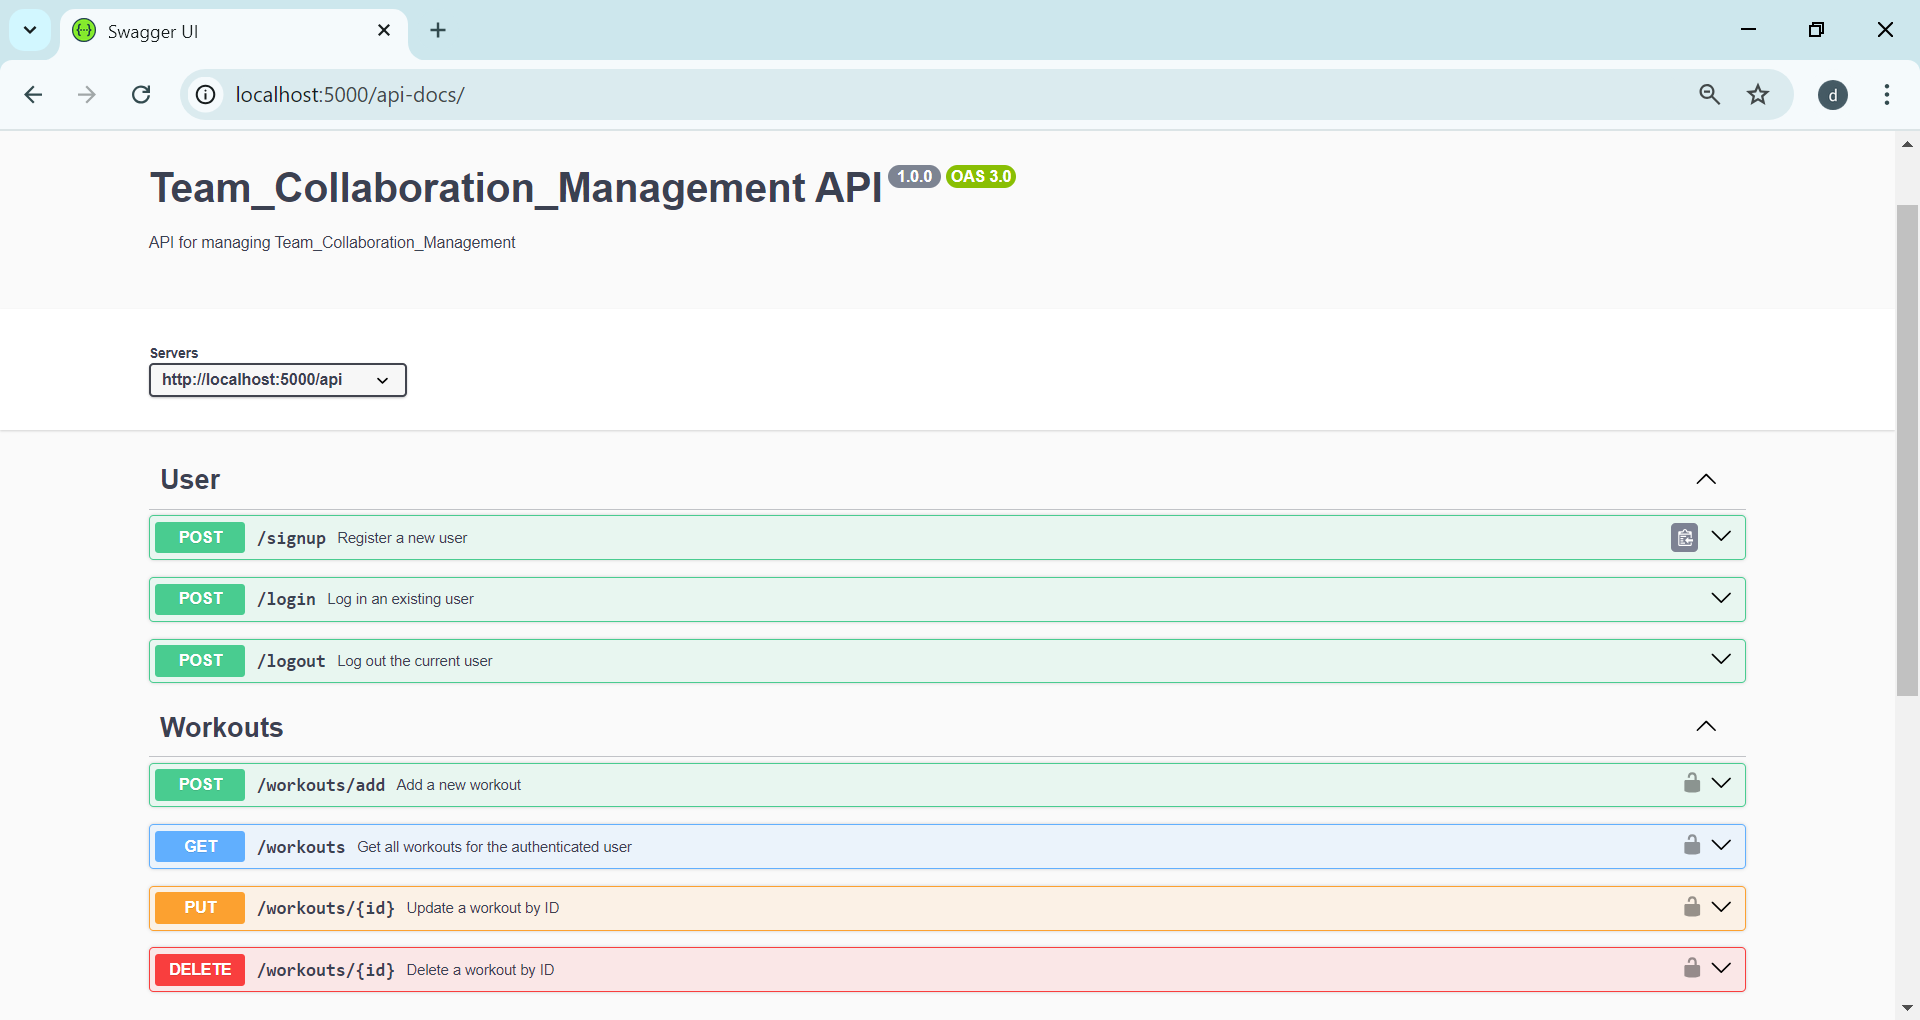
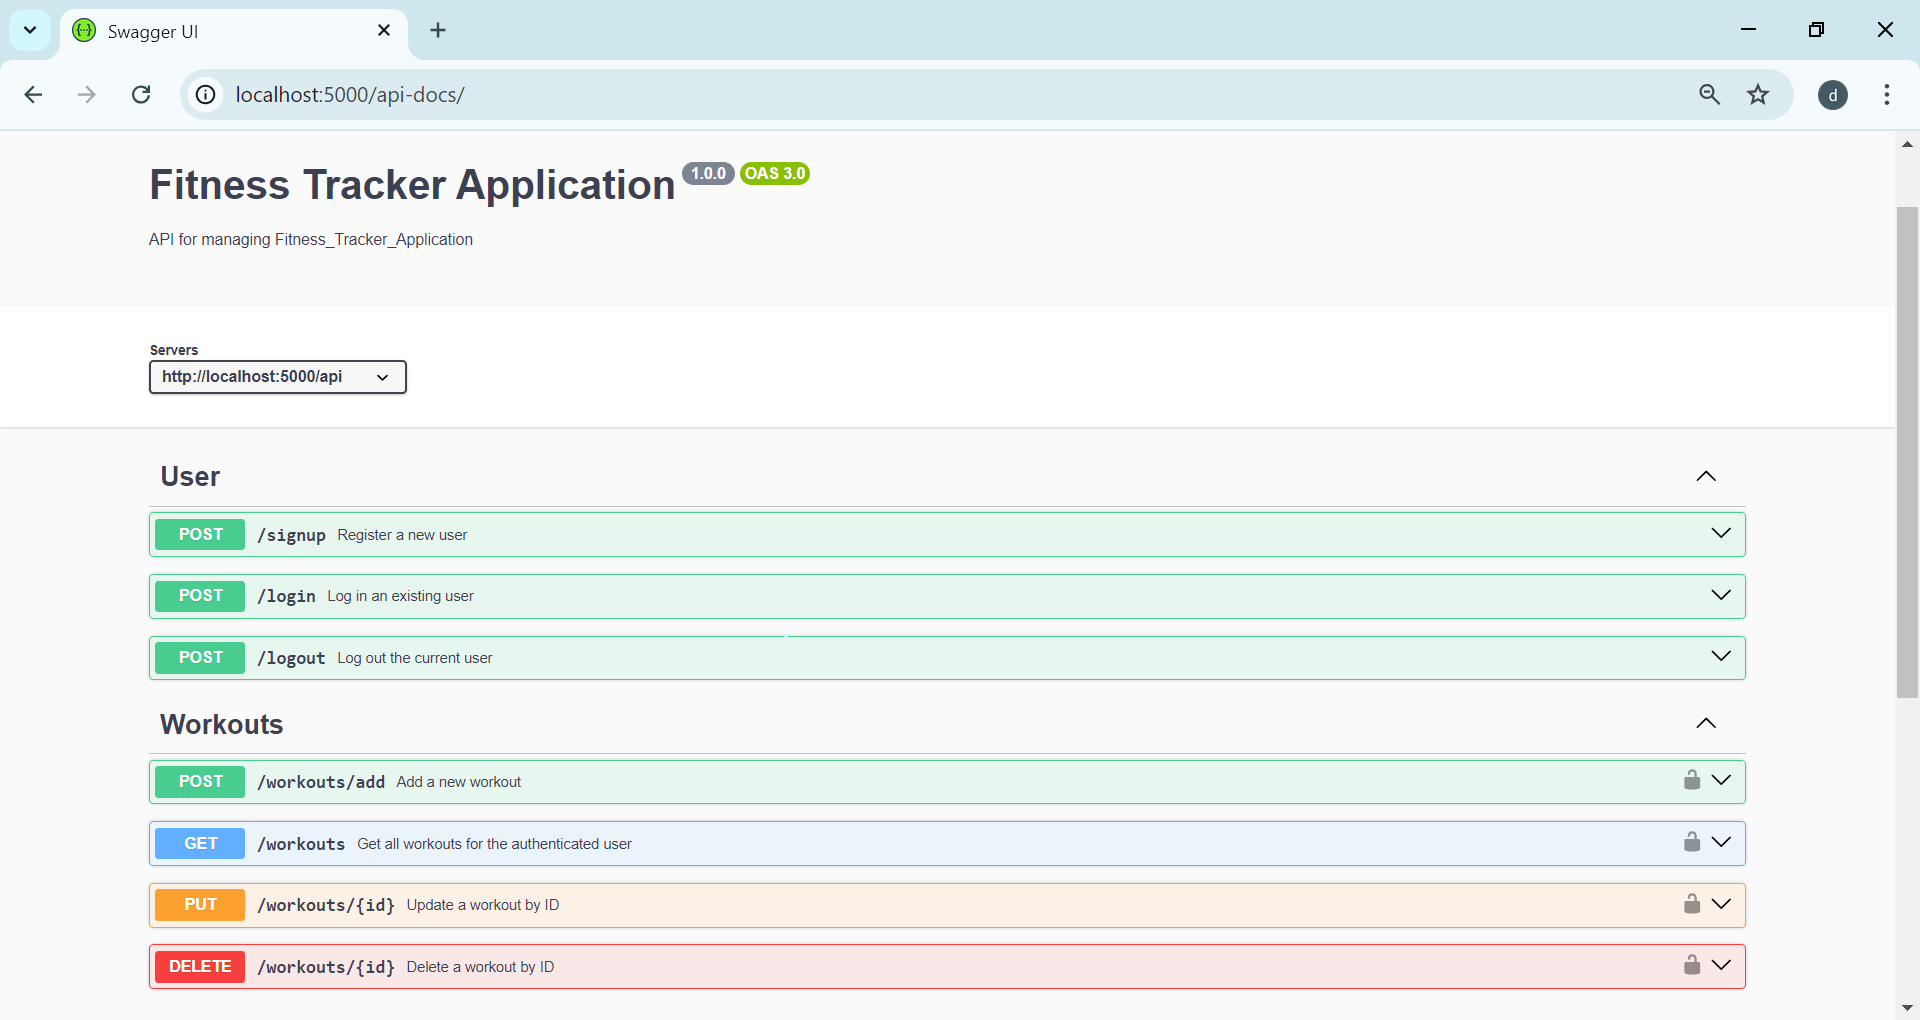
fitness

diff --git a/server.js b/server.js
@@ -28,9 +28,9 @@ const swaggerJsdoc = require('swagger-jsdoc');
 const swaggerDefinition = {
     openapi: '3.0.0',
     info: {
-        title: ' Team_Collaboration_Management  API',
+        title: ' Fitness Tracker Application',
         version: '1.0.0',
-        description: 'API for managing Team_Collaboration_Management',
+        description: 'API for managing Fitness_Tracker_Application',
     },
     servers: [
         {
